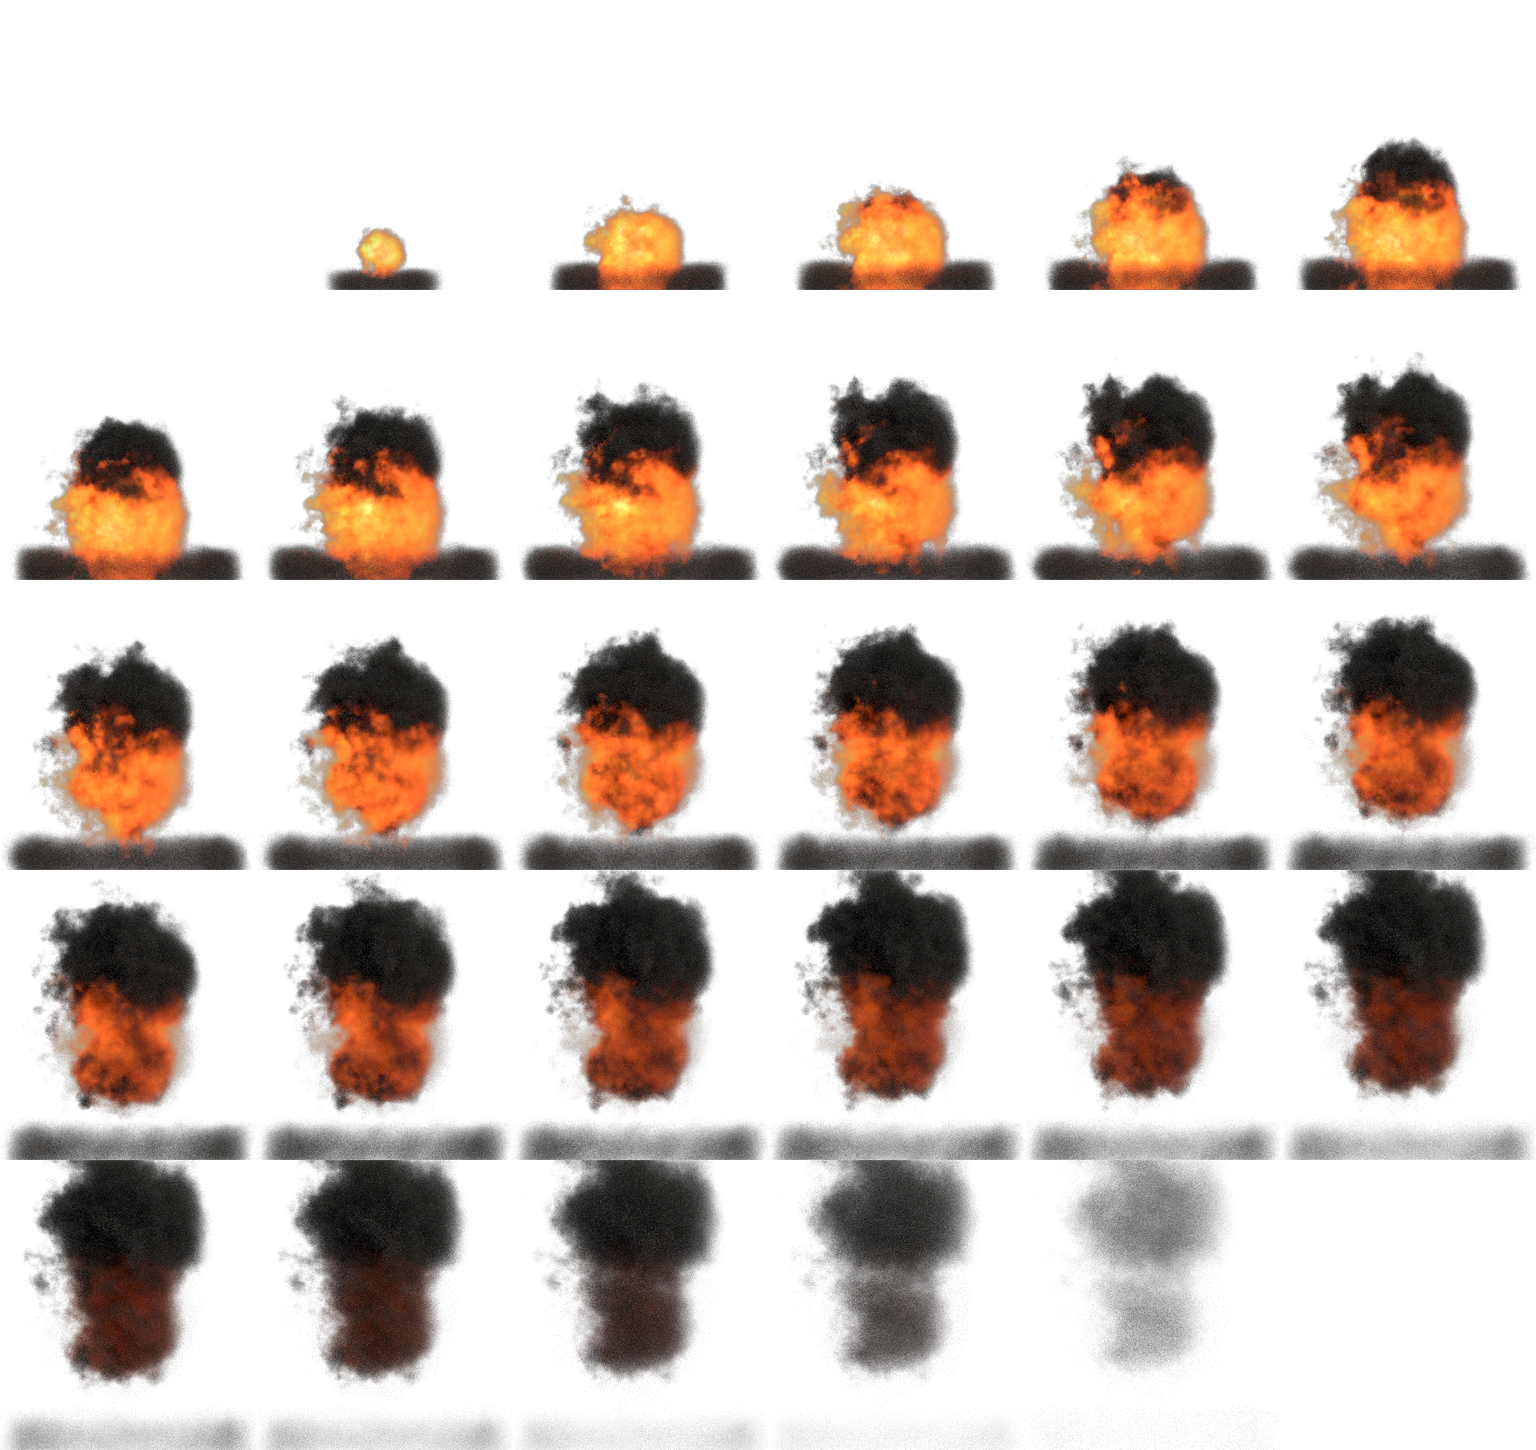
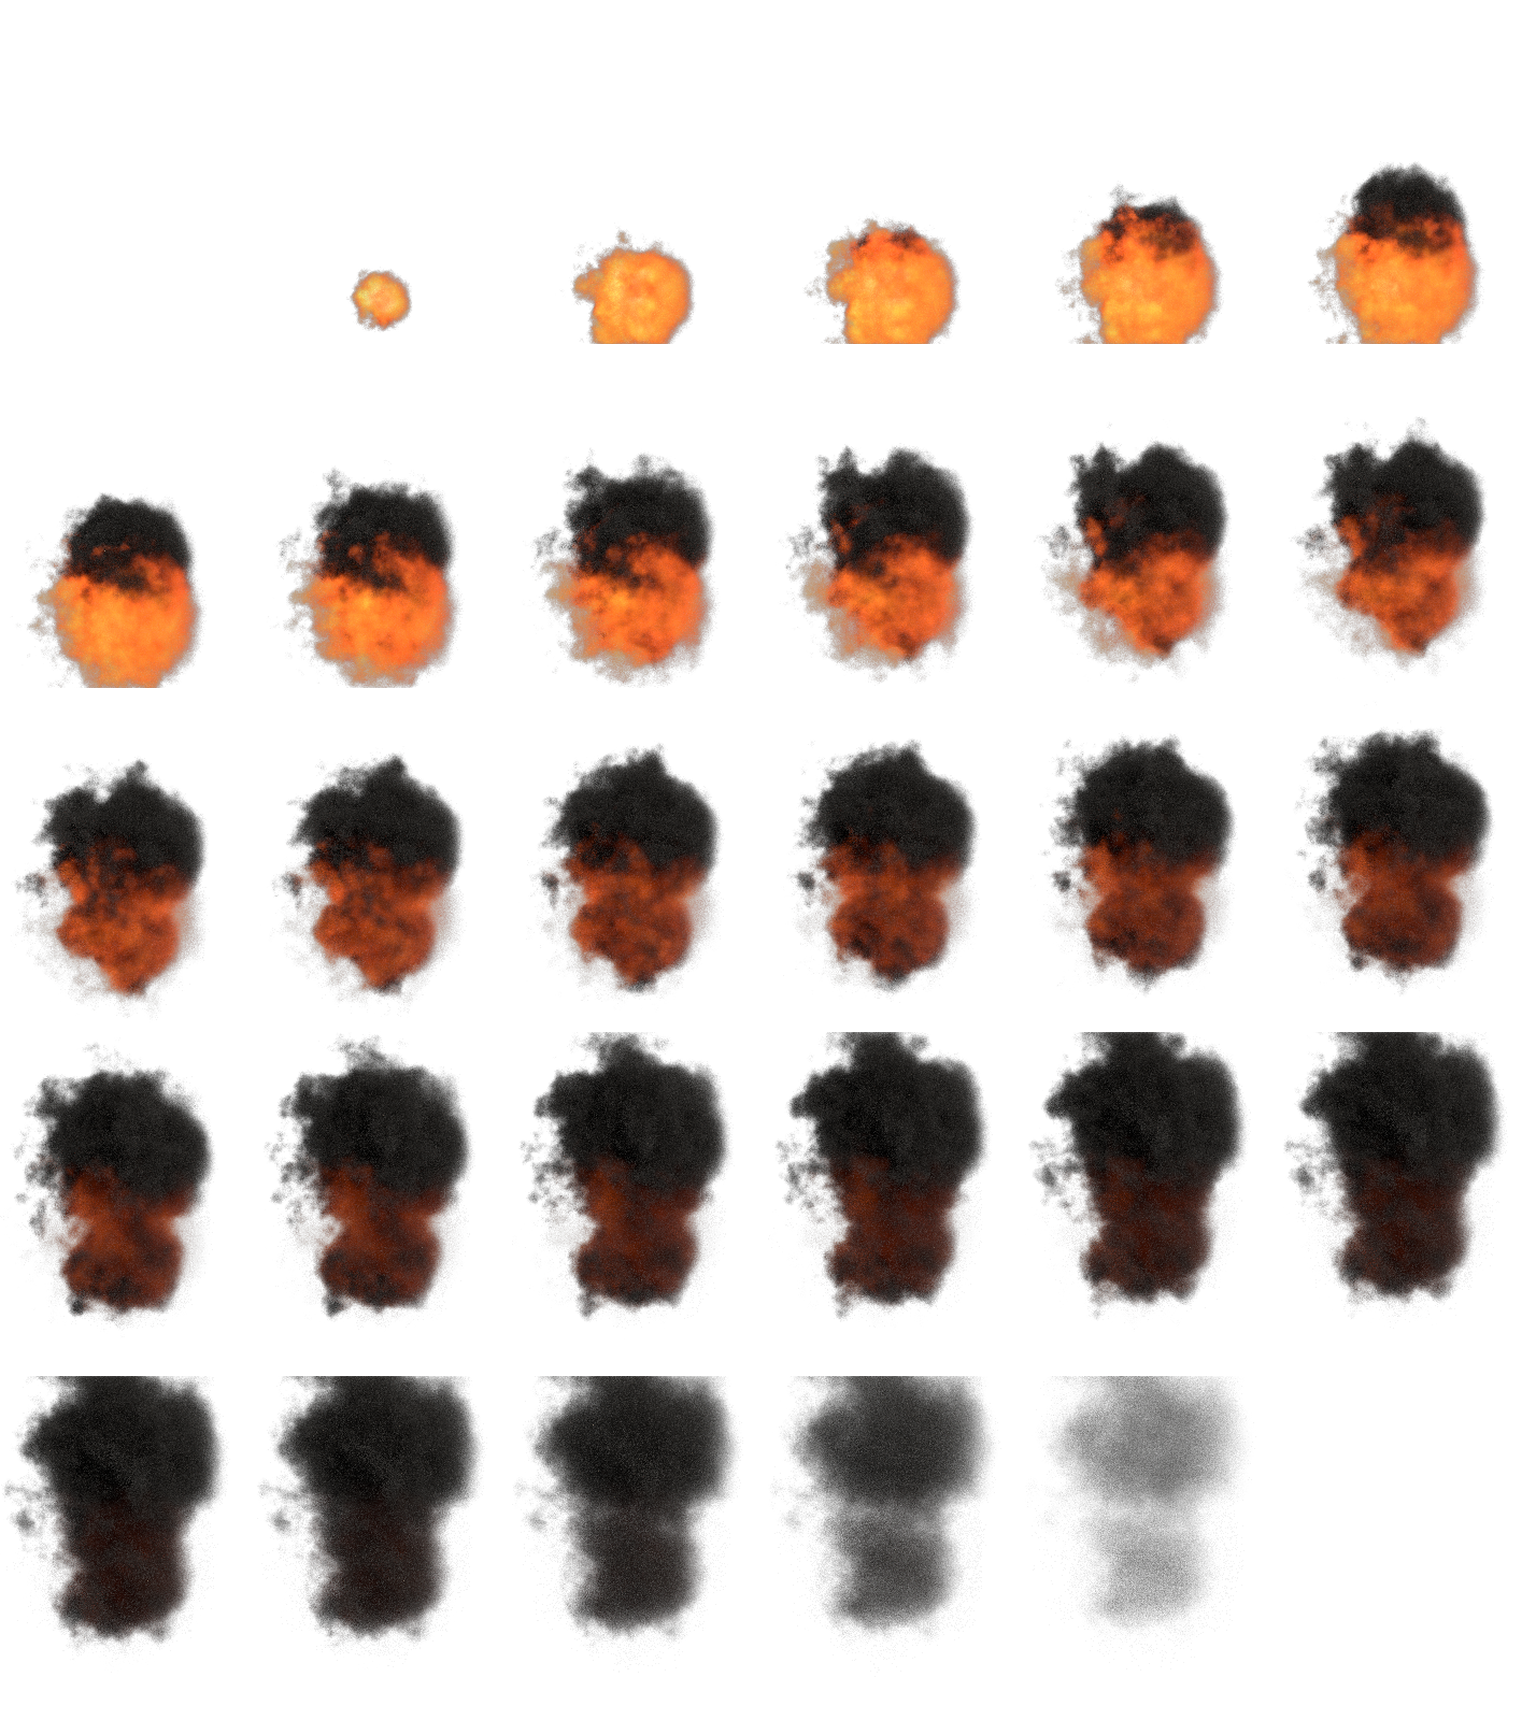
feat(explosie): nieuwe vuurballen (meer rook, gecentreerd, zonder stofring) en bredere vlam uit Blender; zachtere gloed op het vat
Claude-Session: https://claude.ai/code/session_01HVDc63vFL99ybaKBK5jn88

diff --git a/bron/explosie/plak.py b/bron/explosie/plak.py
@@ -15,6 +15,9 @@ rows_ok = np.where(union.sum(axis=1) >= 6)[0]
 cols_ok = np.where(union.sum(axis=0) >= 6)[0]
 box = (int(cols_ok[0]), int(rows_ok[0]), int(cols_ok[-1]) + 1, int(rows_ok[-1]) + 1)
 W0 = Image.open(files[0]).size[0]
+# symmetrisch om het midden (daar staat de explosie), zodat de vuurbal precies op de plek van de ontploffing staat
+half = max(W0 // 2 - box[0], box[2] - W0 // 2)
+box = (max(0, W0 // 2 - half), box[1], min(W0, W0 // 2 + half), box[3])
 pad = int(W0 * 0.02)
 box = (max(0, box[0] - pad), max(0, box[1] - pad), min(W0, box[2] + pad), min(W0, box[3] + pad))
 cw = px
